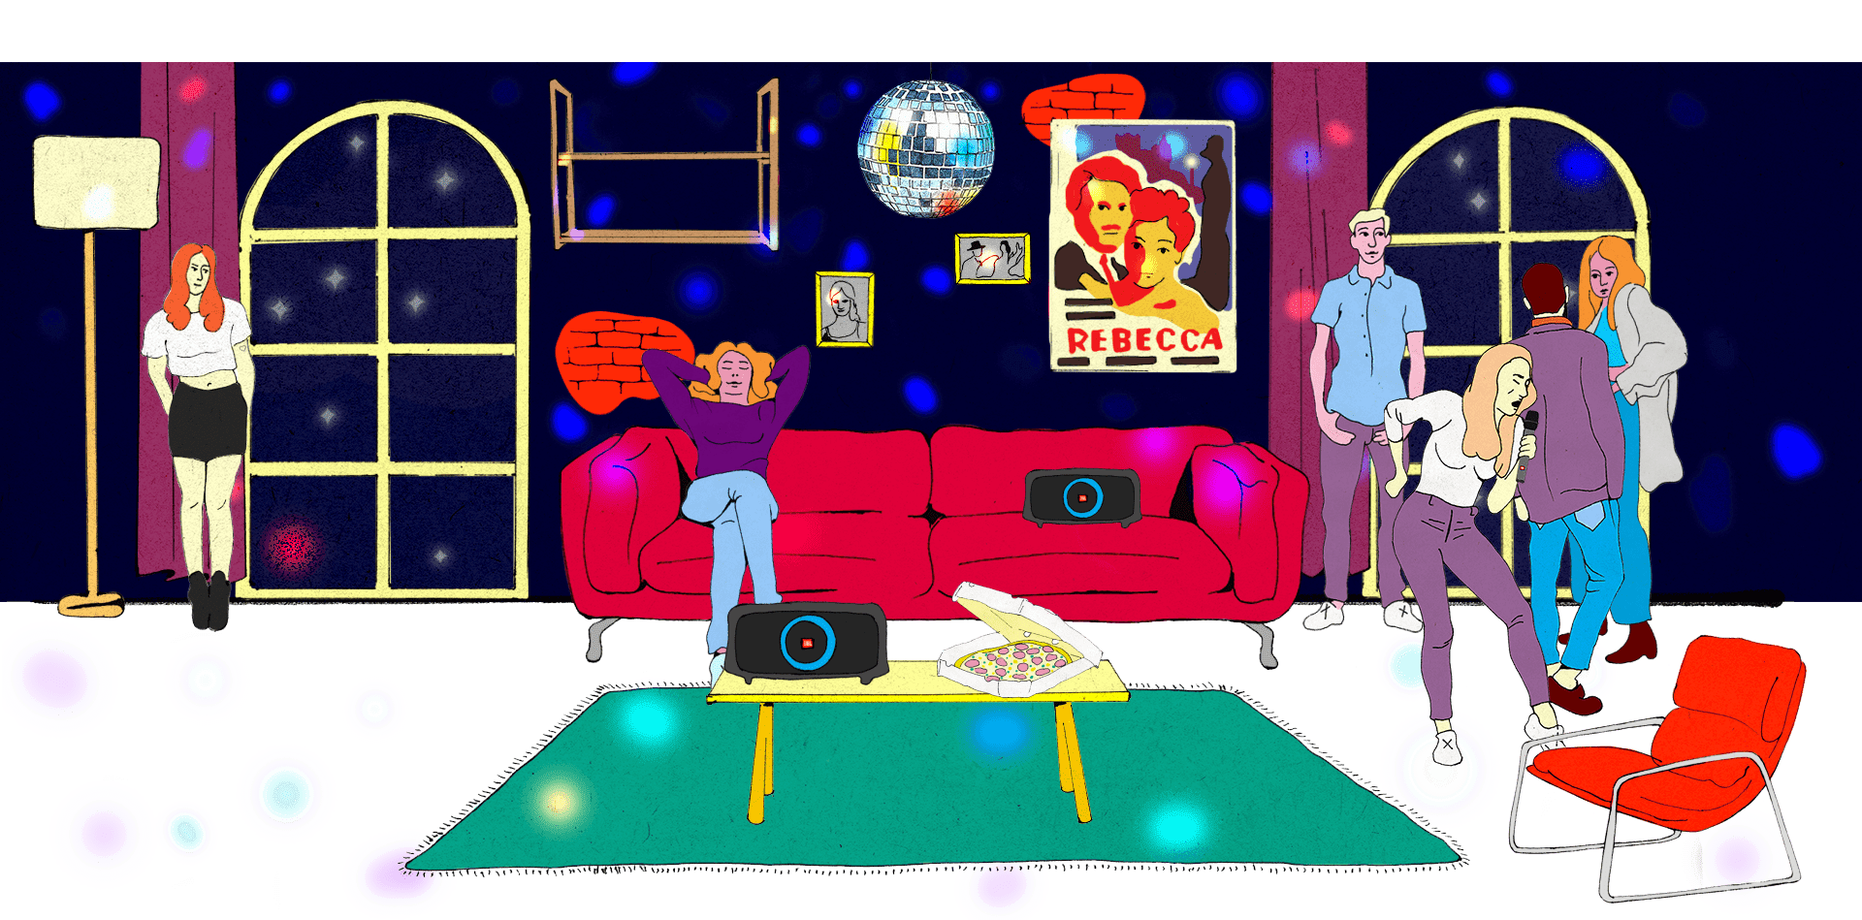
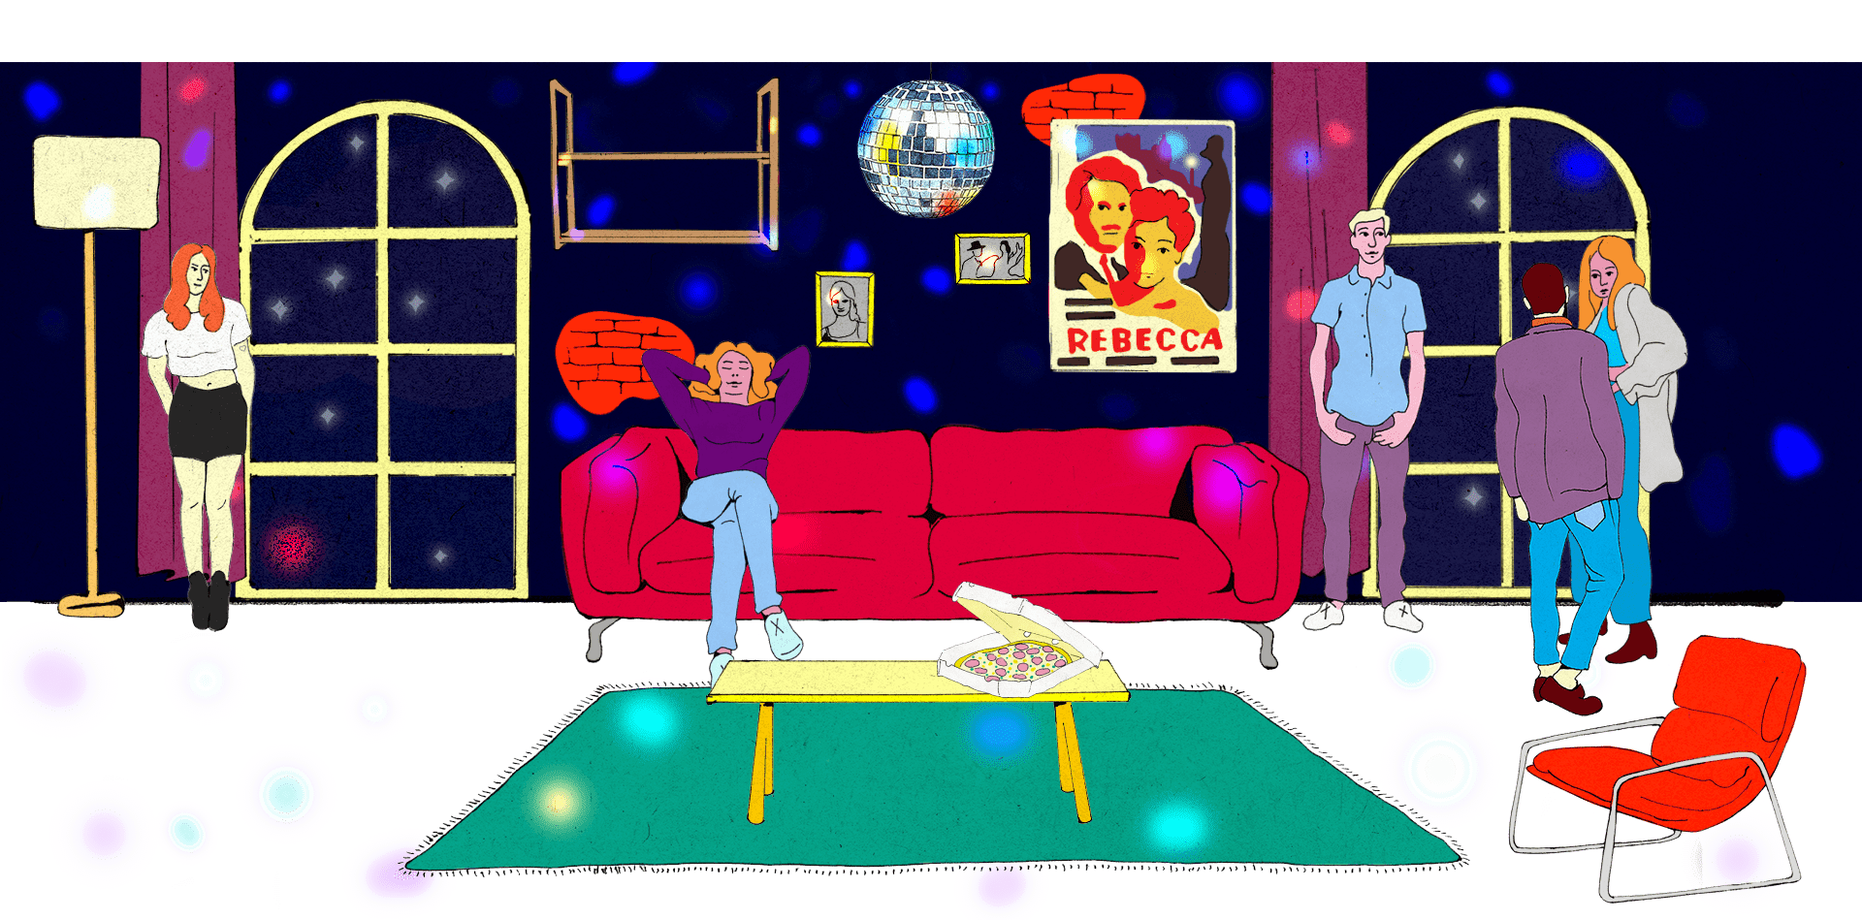
added aniimate images for levels 9,8,7 and update final text

diff --git a/src/components/Final/dataFinal.js b/src/components/Final/dataFinal.js
@@ -1,19 +1,19 @@
 const data = [
     {
         title: 'Bad Guy',
-        text: '<p>Не принимай близко к сердцу — мы это не всерьез. Все равно ты и гости повеселились от души! Зато теперь ты знаешь, на что обратить внимание, организовывая вечеринку.</p><p>А чтобы в следующий раз веселье прошло по высшему разряду, предлагаем присмотреться к новинке от JBL — акустической системе PartyBox On-The-Go. Она зарядит музыкальным настроением любой праздник вне зависимости от его сценария: караоке-вечеринка, рэп-батл, танцы в загородном доме или уютный квартирник с гитарой. Для любого настроения и любой компании — эта акустическая система создаст правильное музыкальное и световое сопровождение.</p><p>За легендарный звук JBL отвечают сразу три динамика, а если и этого окажется мало, две JBL PartyBox On-The-Go можно объединить между собой. Вечеринка может перейти на пляж или к бассейну — корпус защищен от пыли и влаги. Встроенный аккумулятор рассчитан до 6 часов беспрерывного воспроизведения.</p>',
+        text: '<p>Не принимай близко к сердцу — мы это не всерьез. Все равно ты и гости повеселились от души! Зато теперь ты знаешь, на что обратить внимание, организовывая вечеринку.</p><p>И это несложно с новым продуктом от JBL — акустической системой PartyBox On-The-Go. Это настоящий портативный музыкальный комбайн с беспроводным микрофоном в комплекте, который подходит под массу сценариев: караоке-вечеринка, рэп-батл, танцы в загородном доме или уютный квартирник с гитарой. Для любого настроения и любой компании — эта акустическая система создаст правильное музыкальное и световое сопровождение.</p><p>За легендарный звук JBL отвечают сразу три динамика, а если и этого окажется мало, две JBL PartyBox On-The-Go можно объединить между собой. Вечеринка может перейти на пляж или к бассейну — корпус защищен от пыли и влаги. Встроенный аккумулятор рассчитан до 6 часов беспрерывного воспроизведения.</p>',
         mainImg: 81,
         mobileImg: 82
     },
     {
         title: 'Как сумел на гитаре сыграл и спел',
-        text: '<p>Ты организовал приятную караоке-вечеринку: всем было весело, каждый исполнял то, что ему по душе, и почти все песни были спеты гладко. Ну, забыл слова пару раз — с кем не бывает! Ведь главное — это настроение и вайб.</p><p>Ну а чтобы провести идеальную вечеринку, советуем присмотреться к новому продукту JBL — акустической системе PartyBox On-The-Go. Это настоящий портативный музыкальный комбайн, подходящий под массу сценариев: караоке-вечеринка, рэп-батл, танцы в загородном доме или уютный квартирник с гитарой. Для любого настроения и любой компании — эта акустическая система создаст правильное музыкальное и световое сопровождение.</p><p>За легендарный звук JBL отвечают сразу три динамика, а если и этого окажется мало, две JBL PartyBox On-The-Go можно объединить между собой. Вечеринка может перейти на пляж или к бассейну — корпус защищен от пыли и влаги. Встроенный аккумулятор рассчитан до 6 часов беспрерывного воспроизведения.</p>',
+        text: '<p>Ты организовал приятную караоке-вечеринку: всем было весело, каждый исполнял то, что ему по душе, и почти все песни были спеты гладко. Ну, забыл слова пару раз — с кем не бывает! Ведь главное — это настроение и вайб.</p><p>И это несложно с новым продуктом от JBL — акустической системой PartyBox On-The-Go. Это настоящий портативный музыкальный комбайн с беспроводным микрофоном в комплекте, который подходит под массу сценариев: караоке-вечеринка, рэп-батл, танцы в загородном доме или уютный квартирник с гитарой. Для любого настроения и любой компании — эта акустическая система создаст правильное музыкальное и световое сопровождение.</p><p>За легендарный звук JBL отвечают сразу три динамика, а если и этого окажется мало, две JBL PartyBox On-The-Go можно объединить между собой. Вечеринка может перейти на пляж или к бассейну — корпус защищен от пыли и влаги. Встроенный аккумулятор рассчитан до 6 часов беспрерывного воспроизведения.</p>',
         mainImg: 79,
         mobileImg: 80
     },
     {
         title: 'You are the champion',
-        text: '<p>Все, что мы можем сказать, — это было ВАУ! Вечеринка прошла замечательно, ты пел от души, аплодисменты заглушали басы и кто-то незнакомый даже кричал тебе BRAVO с танцпола. Гости разошлись довольными и охрипшими. Все просят организовать такую тусовку еще раз!</p><p>И это несложно с новым продуктом от JBL — акустической системой PartyBox On-The-Go. Это настоящий портативный музыкальный комбайн, подходящий под массу сценариев: караоке-вечеринка, рэп-батл, танцы в загородном доме или уютный квартирник с гитарой. Для любого настроения и любой компании — эта акустическая система создаст правильное музыкальное и световое сопровождение.</p><p>За легендарный звук JBL отвечают сразу три динамика, а если и этого окажется мало, две JBL PartyBox On-The-Go можно объединить между собой. Вечеринка может перейти на пляж или к бассейну — корпус защищен от пыли и влаги. Встроенный аккумулятор рассчитан до 6 часов беспрерывного воспроизведения.</p>',
+        text: '<p>Все, что мы можем сказать, — это было ВАУ! Вечеринка прошла замечательно, ты пел от души, аплодисменты заглушали басы и кто-то незнакомый даже кричал тебе BRAVO с танцпола. Гости разошлись довольными и охрипшими. Все просят организовать такую тусовку еще раз!</p><p>И это несложно с новым продуктом от JBL — акустической системой PartyBox On-The-Go. Это настоящий портативный музыкальный комбайн с беспроводным микрофоном в комплекте, который подходит под массу сценариев: караоке-вечеринка, рэп-батл, танцы в загородном доме или уютный квартирник с гитарой. Для любого настроения и любой компании — эта акустическая система создаст правильное музыкальное и световое сопровождение.</p><p>За легендарный звук JBL отвечают сразу три динамика, а если и этого окажется мало, две JBL PartyBox On-The-Go можно объединить между собой. Вечеринка может перейти на пляж или к бассейну — корпус защищен от пыли и влаги. Встроенный аккумулятор рассчитан до 6 часов беспрерывного воспроизведения.</p>',
         mainImg: 75,
         mobileImg: 78
     }

diff --git a/src/components/Game/levelsData.js b/src/components/Game/levelsData.js
@@ -155,7 +155,7 @@ const levels = [
             { id: 28, style: { left: '39.2em', top: '18.4em', width: '22.9em', height: '42.1em' } },//Парень в розовой рубашке
             // { id: 31, style: { left: '59.2em', top: '3.5em', width: '11.8em', height: '6em' } }, //Колонка
             { id: 29, style: { left: '143.2em', top: '16.8em', width: '14.6em', height: '43.8em' } },//Парень с рюкзаком
-            // { id: 31, style: { left: '75.9em', top: '54.7em', width: '15.8em', height: '8.1em' } }, //Колонка
+            { id: 31, style: { left: '73.8em', top: '54.6em', width: '17.5em', height: '9em' } }, //Колонка
             { id: 32, style: { left: '23.7em', top: '32.7em', width: '26.4em', height: '52.1em' } }, //Девушка спиной
             { id: 37, style: { left: '45.1em', top: '30em', width: '37.6em', height: '57.4em' } },//Танцующая пара
             { id: 33, style: { left: '122.8em', top: '28.6em', width: '26.1em', height: '56.4em' } }, //Парень с микрофоном
@@ -163,8 +163,8 @@ const levels = [
             { id: 61, style: { left: '136em', top: '47.5em', width: '46.8em', height: '40.4em' } }, //Девушка в кресле Вероника
         ],
         animateMinus: [
-            // { id: 31, style: { left: '59.2em', top: '3.5em', width: '11.8em', height: '6em' } }, //Колонка
-            // { id: 31, style: { left: '92.8em', top: '55.3em', width: '15.8em', height: '8.1em' } }, //Колонка
+            { id: 31, style: { left: '109.2em', top: '41.6em', width: '12.8em', height: 'auto' } }, //Колонка
+            { id: 31, style: { left: '89.8em', top: '54.6em', width: '17.5em', height: '9em' } }, //Колонка
             { id: 64, style: { left: '29.1em', top: '24.4em', width: '17.1em', height: '59.4em' } }, //Девушка с поднятой рукой
             { id: 33, style: { left: '59.6em', top: '29.7em', width: '26.1em', height: '56.4em' } }, //Парень с микрофоном
         ]
@@ -175,16 +175,18 @@ const levels = [
         nocorect: 67,
         animatePlus: [
             { id: 28, style: { left: '39.2em', top: '18.4em', width: '22.9em', height: '42.1em' } },//Парень в розовой рубашке
-            // { id: 31, style: { left: '59.2em', top: '3.5em', width: '11.8em', height: '6em' } }, //Колонка
-            // { id: 31, style: { left: '75.9em', top: '54.7em', width: '15.8em', height: '8.1em' } }, //Колонка
+            { id: 40, style: { left: '140.7em', top: '28.3em', width: '20.4em', height: '44.1em' } },//Девушка с микрофоном JBL
+            { id: 31, style: { left: '103.6em', top: '41em', width: '12.8em', height: 'auto' } }, //Колонка
+            { id: 31, style: { left: '73.3em', top: '54.6em', width: '17.5em', height: '9em' } }, //Колонка
             { id: 32, style: { left: '23.7em', top: '32.7em', width: '26.4em', height: '52.1em' } }, //Девушка спиной
             { id: 37, style: { left: '45.1em', top: '30em', width: '37.6em', height: '57.4em' } },//Танцующая пара
             { id: 34, style: { left: '85.9em', top: '31.77em', width: '27.9em', height: '55.5em' } }, //Девушка в зеленом платье
             { id: 54, style: { left: '117em', top: '29em', width: '18em', height: '53.7em' } }, //Девушка спиной в штанах
         ],
         animateMinus: [
-            // { id: 31, style: { left: '59.2em', top: '3.5em', width: '11.8em', height: '6em' } }, //Колонка
-            // { id: 31, style: { left: '92.8em', top: '55.3em', width: '15.8em', height: '8.1em' } }, //Колонка
+            { id: 40, style: { left: '45.4em', top: '25.5em', width: '20.4em', height: '44.1em' } },//Девушка с микрофоном JBL
+            { id: 31, style: { left: '70.6em', top: '41em', width: '12.8em', height: 'auto' } }, //Колонка
+            { id: 31, style: { left: '93.3em', top: '54.6em', width: '17.5em', height: '9em' } }, //Колонка
             { id: 49, style: { left: '4.1em', top: '31.3em', width: '41.9em', height: '55.1em' } }, //Девушка в свитере
             { id: 68, style: { left: '126.4em', top: '27.9em', width: '19.4em', height: '53.2em' } }, //Подозрительный чел
         ]
@@ -195,8 +197,8 @@ const levels = [
         nocorect: 73,
         animatePlus: [
             { id: 28, style: { left: '131.2em', top: '18.4em', width: '22.9em', height: '42.1em' } },//Парень в розовой рубашке
-            // { id: 31, style: { left: '59.2em', top: '3.5em', width: '11.8em', height: '6em' } }, //Колонка
-            // { id: 31, style: { left: '95.6em', top: '54.7em', width: '15.8em', height: '8.1em' } }, //Колонка
+            { id: 31, style: { left: '103.6em', top: '31.8em', width: '12.8em', height: 'auto' } }, //Колонка
+            { id: 31, style: { left: '93.3em', top: '54.6em', width: '17.5em', height: '9em' } }, //Колонка
             { id: 37, style: { left: '34.3em', top: '28.6em', width: '34.4em', height: '52.5em' } },//Танцующая пара
             { id: 34, style: { left: '65.1em', top: '31.2em', width: '27.9em', height: '55.5em' } }, //Девушка в зеленом платье
             { id: 38, style: { left: '116.1em', top: '27.8em', width: '32.3em', height: '53em' } }, //Девушка в жёлтом платье
@@ -205,8 +207,8 @@ const levels = [
         ],
         animateMinus: [
             { id: 74, style: { left: '39.6em', top: '19.2em', width: '12.5em', height: '41em' } }, //Мальчик
-            // { id: 31, style: { left: '59.3em', top: '11.7em', width: '11.8em', height: '6em' } }, //Колонка
-            // { id: 31, style: { left: '92.8em', top: '55.3em', width: '15.8em', height: '8.1em' } }, //Колонка
+            { id: 31, style: { left: '78.5em', top: '32em', width: '12.8em', height: 'auto' } }, //Колонка
+            { id: 31, style: { left: '74.1em', top: '54.6em', width: '17.5em', height: '9em' } }, //Колонка
             { id: 33, style: { left: '101.3em', top: '30.7em', width: '26.1em', height: '56.4em' } }, //Парень с микрофоном
         ]
     },
